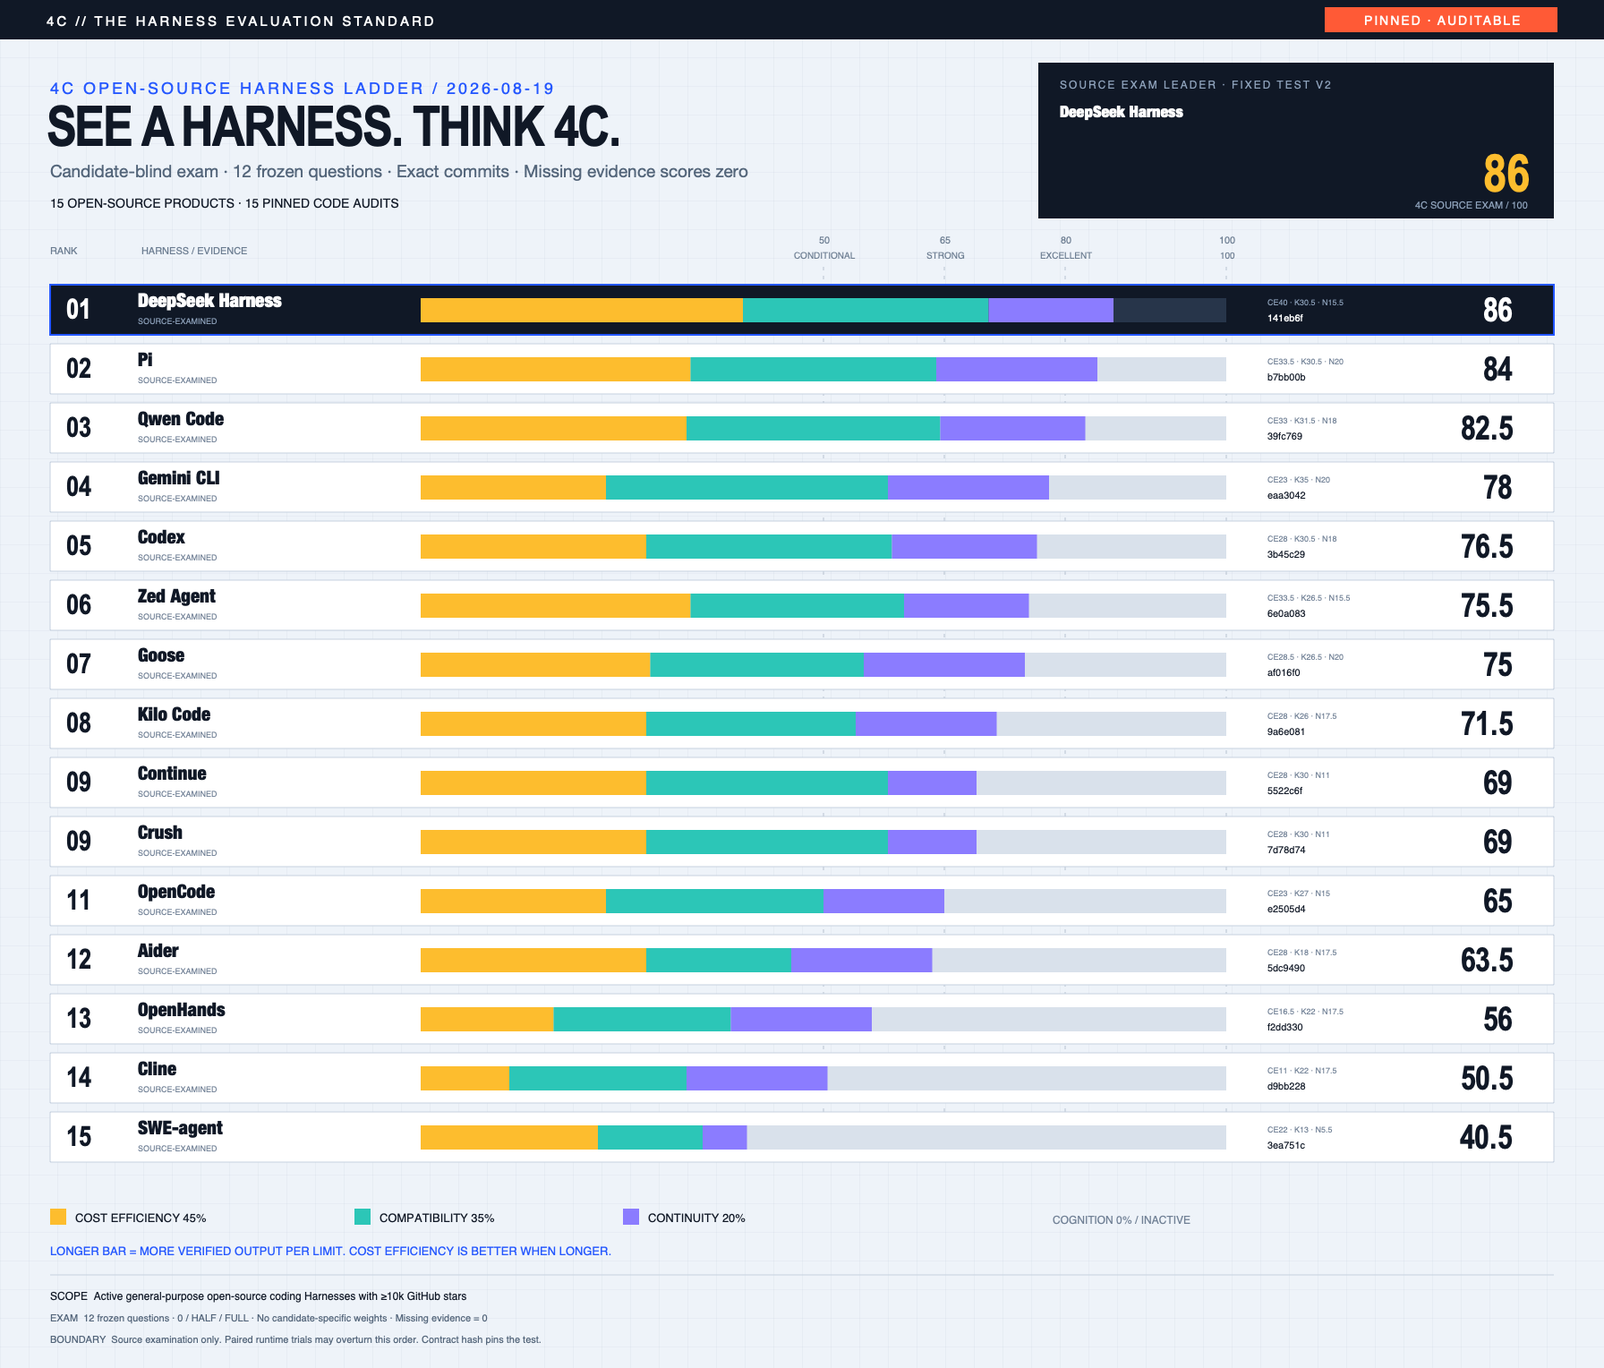
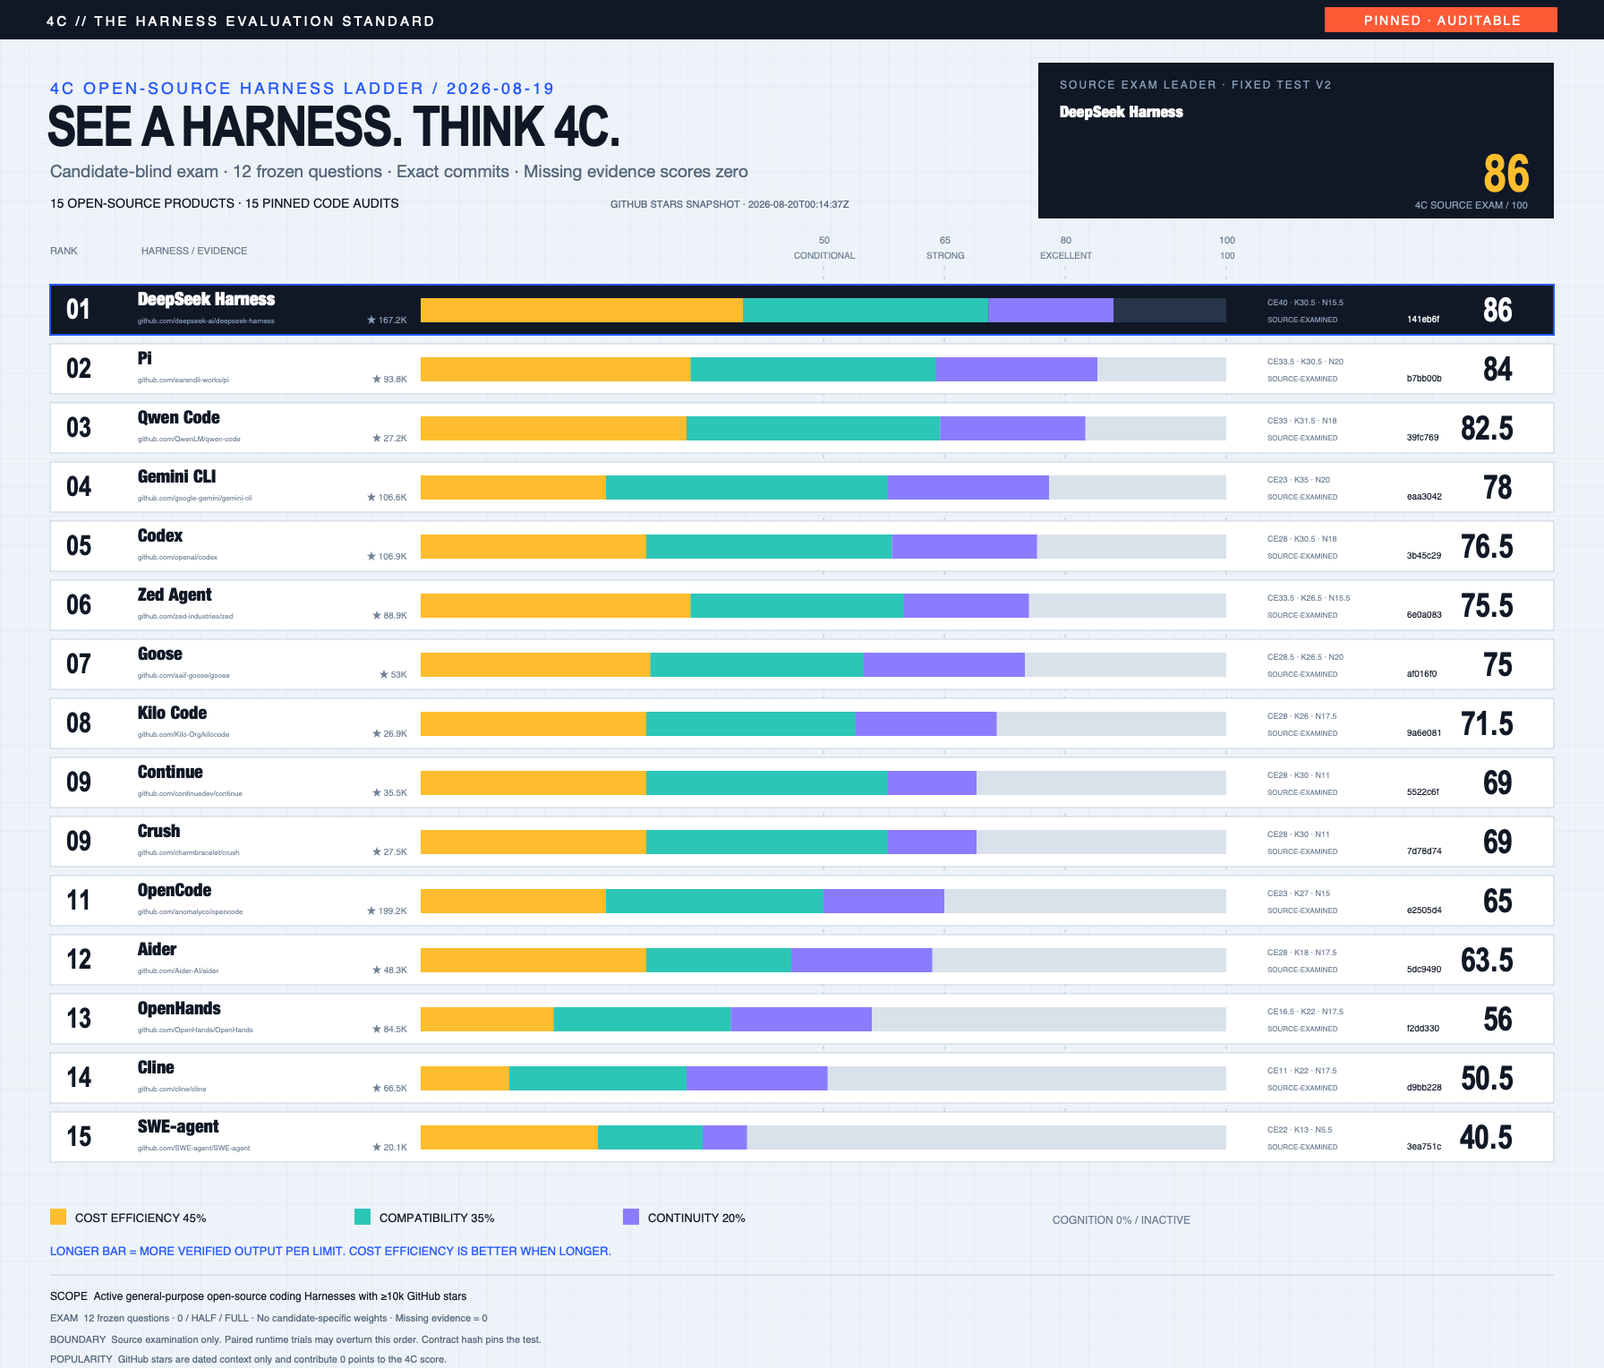
Add GitHub URLs and popularity to ladder

diff --git a/tools/render_harness_ladder.py b/tools/render_harness_ladder.py
@@ -50,10 +50,17 @@ def display(value: float) -> str:
     return str(int(value)) if float(value).is_integer() else f"{value:g}"
 
 
+def display_stars(value: int) -> str:
+    thousands = value / 1000
+    rendered = f"{thousands:.1f}".removesuffix(".0")
+    return f"{rendered}K"
+
+
 def main() -> None:
     exam = json.loads(EXAM.read_text())
     data = json.loads(RESULTS.read_text())
     market = json.loads(MARKET.read_text())
+    products = {product["name"]: product for product in market["products"]}
     indexed = list(enumerate(data["candidates"]))
     candidates = [x for _, x in sorted(indexed, key=lambda pair: (-pair[1]["score"], pair[0]))]
     weights = pressure_weights(exam)
@@ -66,9 +73,9 @@ def main() -> None:
     height = footer_y + 178
     esc = html.escape
     lines = [
-        f'<svg xmlns="http://www.w3.org/2000/svg" width="1792" height="{height}" viewBox="0 0 1792 {height}" role="img" aria-labelledby="title desc" data-comparison-id="{COMPARISON_ID}" data-contract-sha256="{exam["contract_sha256"]}" data-market-snapshot="{market["snapshot_date"]}" data-bar-origin="{GLOBAL_BAR_X}" data-pixels-per-point="{PX}">',
+        f'<svg xmlns="http://www.w3.org/2000/svg" xmlns:xlink="http://www.w3.org/1999/xlink" width="1792" height="{height}" viewBox="0 0 1792 {height}" role="img" aria-labelledby="title desc" data-comparison-id="{COMPARISON_ID}" data-contract-sha256="{exam["contract_sha256"]}" data-market-snapshot="{market["snapshot_date"]}" data-github-metrics-captured-at="{market["github_metrics_captured_at"]}" data-bar-origin="{GLOBAL_BAR_X}" data-pixels-per-point="{PX}">',
         '<title id="title">4C open-source Harness ladder for interactive coding</title>',
-        f'<desc id="desc">Fifteen active open-source coding Harnesses answer the same frozen source exam. {esc(leaders[0]["candidate"])} leads at {display(top)}. Longer bars mean better fit, not higher cost.</desc>',
+        f'<desc id="desc">Fifteen active open-source coding Harnesses answer the same frozen source exam. {esc(leaders[0]["candidate"])} leads at {display(top)}. Each row links to its official GitHub repository and shows a dated star snapshot. Stars do not affect the score. Longer bars mean better fit, not higher cost.</desc>',
         '<defs><pattern id="grid" width="32" height="32" patternUnits="userSpaceOnUse"><path d="M32 0H0V32" fill="none" stroke="#B8C5D6" stroke-width="1" opacity=".28"/></pattern></defs>',
         f'<rect width="1792" height="{height}" fill="#EEF3F9"/><rect width="1792" height="{height}" fill="url(#grid)"/>',
         '<rect width="1792" height="44" fill="#101826"/>',
@@ -78,6 +85,7 @@ def main() -> None:
         '<text x="52" y="163" fill="#101826" font-family="Arial Narrow,Helvetica Neue,Arial,sans-serif" font-size="62" font-weight="900" letter-spacing="-2">SEE A HARNESS. THINK 4C.</text>',
         '<text x="56" y="198" fill="#53657A" font-family="Helvetica Neue,Arial,sans-serif" font-size="19">Candidate-blind exam · 12 frozen questions · Exact commits · Missing evidence scores zero</text>',
         f'<text class="coverage-count" x="56" y="232" fill="#101826" font-family="SFMono-Regular,Menlo,monospace" font-size="14" font-weight="700">{len(candidates)} OPEN-SOURCE PRODUCTS · {len(candidates)} PINNED CODE AUDITS</text>',
+        f'<text x="682" y="232" fill="#53657A" font-family="SFMono-Regular,Menlo,monospace" font-size="11">GITHUB STARS SNAPSHOT · {market["github_metrics_captured_at"]}</text>',
         '<g transform="translate(1160 70)"><rect width="576" height="174" fill="#101826"/>',
         '<text x="24" y="29" fill="#8FA3BC" font-family="SFMono-Regular,Menlo,monospace" font-size="12" letter-spacing="2">SOURCE EXAM LEADER · FIXED TEST V2</text>',
     ]
@@ -97,14 +105,20 @@ def main() -> None:
     for idx, (item, rank) in enumerate(zip(candidates, ranks)):
         y = row_start + idx * row_step
         leader = item["score"] == top
+        product = products[item["candidate"]]
+        official_url = product["official_url"]
+        visible_url = official_url.removeprefix("https://")
+        stars = int(product["stars_at_snapshot"])
         bg, fg, sub, stroke = ("#101826", "#FFFFFF", "#8FA3BC", "#2457FF") if leader else ("#FFFFFF", "#101826", "#718196", "#C7D2E0")
         lines += [
             f'<!-- {esc(item["candidate"])} -->',
-            f'<g class="candidate-row" data-candidate="{esc(item["candidate"])}" data-score="{display(item["score"])}" data-rank="{rank}" transform="translate({ROW_X} {y})">',
+            f'<g class="candidate-row" data-candidate="{esc(item["candidate"])}" data-score="{display(item["score"])}" data-rank="{rank}" data-url="{esc(official_url)}" data-stars="{stars}" transform="translate({ROW_X} {y})">',
             f'<rect width="1680" height="{row_height}" fill="{bg}" stroke="{stroke}" stroke-width="{2 if leader else 1}"/>',
             f'<text class="rank-label" x="18" y="38" fill="{fg}" font-family="Arial Narrow,Helvetica Neue,Arial,sans-serif" font-size="31" font-weight="900">{rank:02d}</text>',
-            f'<text class="candidate-label" x="98" y="25" fill="{fg}" font-family="Helvetica Neue,Arial,sans-serif" font-size="21" font-weight="800">{esc(item["candidate"])}</text>',
-            f'<text class="stage-label" x="98" y="44" fill="{sub}" font-family="SFMono-Regular,Menlo,monospace" font-size="9">{item["evidence_stage"].upper()}</text>',
+            f'<text class="candidate-label" x="98" y="23" fill="{fg}" font-family="Helvetica Neue,Arial,sans-serif" font-size="20" font-weight="800">{esc(item["candidate"])}</text>',
+            f'<text class="candidate-url" x="98" y="43" fill="{sub}" font-family="SFMono-Regular,Menlo,monospace" font-size="8">{esc(visible_url)}</text>',
+            f'<text class="star-label" x="398" y="43" text-anchor="end" fill="{sub}" font-family="SFMono-Regular,Menlo,monospace" font-size="10" font-weight="700">★ {display_stars(stars)}</text>',
+            f'<a class="candidate-link" href="{esc(official_url)}" xlink:href="{esc(official_url)}" target="_blank" aria-label="Open {esc(item["candidate"])} on GitHub"><rect x="90" y="3" width="312" height="48" fill="#FFFFFF" fill-opacity="0"/></a>',
             f'<rect x="{BAR_X}" y="15" width="900" height="27" fill="{("#27354A" if leader else "#D9E1EB")}"/>',
         ]
         cursor = BAR_X
@@ -119,7 +133,8 @@ def main() -> None:
         grade_text = f'CE{display(contribution_values["Cost"])} · K{display(contribution_values["Compatibility"])} · N{display(contribution_values["Continuity"])}'
         lines += [
             f'<text x="1360" y="23" fill="{sub}" font-family="SFMono-Regular,Menlo,monospace" font-size="9">{grade_text}</text>',
-            f'<text x="1360" y="41" fill="{fg}" font-family="SFMono-Regular,Menlo,monospace" font-size="11" font-weight="700">{item["exact_commit"][:7]}</text>',
+            f'<text class="stage-label" x="1360" y="42" fill="{sub}" font-family="SFMono-Regular,Menlo,monospace" font-size="8">{item["evidence_stage"].upper()}</text>',
+            f'<text class="commit-label" x="1516" y="42" fill="{fg}" font-family="SFMono-Regular,Menlo,monospace" font-size="10" font-weight="700">{item["exact_commit"][:7]}</text>',
             f'<text class="score-label" x="1632" y="41" text-anchor="end" fill="{fg}" font-family="Arial Narrow,Helvetica Neue,Arial,sans-serif" font-size="37" font-weight="900">{display(item["score"])}</text>',
             '</g>',
         ]
@@ -138,6 +153,7 @@ def main() -> None:
         '<text x="0" y="102" fill="#101826" font-size="12">SCOPE  Active general-purpose open-source coding Harnesses with ≥10k GitHub stars</text>',
         '<text x="0" y="126" fill="#53657A" font-size="11">EXAM  12 frozen questions · 0 / HALF / FULL · No candidate-specific weights · Missing evidence = 0</text>',
         '<text x="0" y="150" fill="#53657A" font-size="11">BOUNDARY  Source examination only. Paired runtime trials may overturn this order. Contract hash pins the test.</text>',
+        '<text x="0" y="172" fill="#53657A" font-size="11">POPULARITY  GitHub stars are dated context only and contribute 0 points to the 4C score.</text>',
         '</g></svg>',
     ]
     OUTPUT.write_text("\n".join(lines) + "\n")

diff --git a/tools/harness_ladder_check.py b/tools/harness_ladder_check.py
@@ -39,6 +39,12 @@ def display_number(value: float) -> str:
     return str(int(value)) if value.is_integer() else f"{value:g}"
 
 
+def display_stars(value: int) -> str:
+    thousands = value / 1000
+    rendered = f"{thousands:.1f}".removesuffix(".0")
+    return f"{rendered}K"
+
+
 def competition_ranks(candidates: list[dict]) -> list[int]:
     ranks: list[int] = []
     previous_score: float | None = None
@@ -72,6 +78,8 @@ def main() -> int:
     exam = json.loads(EXAM.read_text())
     payload = json.loads(RESULTS.read_text())
     market = json.loads(MARKET.read_text())
+    products = market.get("products", [])
+    products_by_name = {product.get("name"): product for product in products}
     weights = pressure_weights(exam)
     indexed = list(enumerate(payload["candidates"]))
     candidates = [
@@ -88,6 +96,8 @@ def main() -> int:
         errors.append("SVG is not bound to the frozen exam contract")
     if svg.get("data-market-snapshot") != market["snapshot_date"]:
         errors.append("SVG market snapshot does not match the market universe")
+    if svg.get("data-github-metrics-captured-at") != market.get("github_metrics_captured_at"):
+        errors.append("SVG GitHub metrics timestamp does not match the market universe")
     pixels_per_point = float(svg.get("data-pixels-per-point", "nan"))
     global_bar_origin = float(svg.get("data-bar-origin", "nan"))
 
@@ -99,15 +109,25 @@ def main() -> int:
             name = candidate["candidate"]
             score = float(candidate["score"])
             prefix = f"{name}:"
+            product = products_by_name.get(name, {})
+            official_url = str(product.get("official_url", ""))
+            stars = int(product.get("stars_at_snapshot", 0))
             if row.get("data-candidate") != name:
                 errors.append(f"{prefix} row order/name differs from scorecard")
             if row.get("data-score") != display_number(score):
                 errors.append(f"{prefix} data-score differs from {display_number(score)}")
             if row.get("data-rank") != str(rank):
                 errors.append(f"{prefix} rank differs from {rank}")
+            if row.get("data-url") != official_url:
+                errors.append(f"{prefix} row URL differs from the market snapshot")
+            if row.get("data-stars") != str(stars):
+                errors.append(f"{prefix} row stars differ from the market snapshot")
 
             try:
                 candidate_label = one_with_class(row, "candidate-label").text or ""
+                candidate_link = one_with_class(row, "candidate-link")
+                candidate_url = one_with_class(row, "candidate-url").text or ""
+                star_label = one_with_class(row, "star-label").text or ""
                 rank_label = one_with_class(row, "rank-label").text or ""
                 score_label = one_with_class(row, "score-label").text or ""
                 stage_label = one_with_class(row, "stage-label").text or ""
@@ -116,6 +136,12 @@ def main() -> int:
                 continue
             if candidate_label != name:
                 errors.append(f"{prefix} visible candidate label is stale")
+            if candidate_link.get("href") != official_url:
+                errors.append(f"{prefix} visible candidate link is stale")
+            if candidate_url != official_url.removeprefix("https://"):
+                errors.append(f"{prefix} visible GitHub URL is stale")
+            if star_label != f"★ {display_stars(stars)}":
+                errors.append(f"{prefix} visible GitHub stars are stale")
             if rank_label != f"{rank:02d}":
                 errors.append(f"{prefix} visible rank label is stale")
             if score_label != display_number(score):
@@ -185,7 +211,6 @@ def main() -> int:
     except ValueError as error:
         errors.append(str(error))
 
-    products = market.get("products", [])
     product_names = [product.get("name") for product in products]
     if len(product_names) != len(set(product_names)):
         errors.append("market universe contains duplicate product names")
@@ -198,12 +223,15 @@ def main() -> int:
             errors.append(f"{name}: unsupported market status {status!r}")
         if not str(product.get("official_url", "")).startswith("https://"):
             errors.append(f"{name}: official_url must be HTTPS")
+        if status == "ranked":
+            if not str(product.get("official_url", "")).startswith("https://github.com/"):
+                errors.append(f"{name}: ranked candidate requires an official GitHub URL")
+            if int(product.get("stars_at_snapshot", 0)) < 10_000:
+                errors.append(f"{name}: ranked candidate misses the market-presence gate")
         if status in {"source-audit-queued", "ranked"} and "pinned_commit" in product:
             commit = str(product.get("pinned_commit", ""))
             if len(commit) != 40 or any(character not in "0123456789abcdef" for character in commit):
                 errors.append(f"{name}: public source entry requires a 40-character commit")
-            if int(product.get("stars_at_snapshot", 0)) < 10_000:
-                errors.append(f"{name}: public source entry misses the market-presence gate")
 
     ranked_names = {product["name"] for product in products if product["status"] == "ranked"}
     scorecard_names = {candidate["candidate"] for candidate in candidates}

diff --git a/tools/test_harness_ladder_check.py b/tools/test_harness_ladder_check.py
@@ -59,6 +59,30 @@ class HarnessLadderTests(unittest.TestCase):
             with patch.object(ladder, "LADDER", path), redirect_stderr(io.StringIO()):
                 self.assertEqual(ladder.main(), 1)
 
+    def test_changed_candidate_url_is_rejected(self) -> None:
+        source = ladder.LADDER.read_text()
+        altered = source.replace(
+            'data-url="https://github.com/deepseek-ai/deepseek-harness"',
+            'data-url="https://github.com/example/not-the-candidate"',
+            1,
+        )
+        self.assertNotEqual(source, altered)
+        with tempfile.TemporaryDirectory() as directory:
+            path = Path(directory) / "ladder.svg"
+            path.write_text(altered)
+            with patch.object(ladder, "LADDER", path), redirect_stderr(io.StringIO()):
+                self.assertEqual(ladder.main(), 1)
+
+    def test_changed_candidate_stars_are_rejected(self) -> None:
+        source = ladder.LADDER.read_text()
+        altered = source.replace('data-stars="167152"', 'data-stars="167153"', 1)
+        self.assertNotEqual(source, altered)
+        with tempfile.TemporaryDirectory() as directory:
+            path = Path(directory) / "ladder.svg"
+            path.write_text(altered)
+            with patch.object(ladder, "LADDER", path), redirect_stderr(io.StringIO()):
+                self.assertEqual(ladder.main(), 1)
+
 
 if __name__ == "__main__":
     unittest.main()

diff --git a/docs/scouts/2026-08-19-open-source-ladder.md b/docs/scouts/2026-08-19-open-source-ladder.md
@@ -3,6 +3,9 @@
 This report is the audit trail behind the opening ladder. It compares every
 active general-purpose open-source coding Harness in the dated market universe
 with at least 10,000 GitHub stars. Each repository is pinned to an exact commit.
+Every candidate row also carries its official GitHub URL and a star-count
+snapshot captured at **2026-08-20T00:14:37Z**. Stars are market context only:
+they contribute **0 points** to the 4C score.
 
 ## Locked comparison contract
 
@@ -20,26 +23,30 @@ with at least 10,000 GitHub stars. Each repository is pinned to an exact commit.
 
 ## Result
 
-| Rank | Harness | CE / K / N | Source exam | Pinned commit |
-|---:|---|---:|---:|---|
-| 1 | DeepSeek Harness | 40 / 30.5 / 15.5 | **86** | `141eb6f` |
-| 2 | Pi | 33.5 / 30.5 / 20 | **84** | `b7bb00b` |
-| 3 | Qwen Code | 33 / 31.5 / 18 | **82.5** | `39fc769` |
-| 4 | Gemini CLI | 23 / 35 / 20 | **78** | `eaa3042` |
-| 5 | Codex | 28 / 30.5 / 18 | **76.5** | `3b45c29` |
-| 6 | Zed Agent | 33.5 / 26.5 / 15.5 | **75.5** | `6e0a083` |
-| 7 | Goose | 28.5 / 26.5 / 20 | **75** | `af016f0` |
-| 8 | Kilo Code | 28 / 26 / 17.5 | **71.5** | `9a6e081` |
-| 9 | Continue | 28 / 30 / 11 | **69** | `5522c6f` |
-| 9 | Crush | 28 / 30 / 11 | **69** | `7d78d74` |
-| 11 | OpenCode | 23 / 27 / 15 | **65** | `e2505d4` |
-| 12 | Aider | 28 / 18 / 17.5 | **63.5** | `5dc9490` |
-| 13 | OpenHands | 16.5 / 22 / 17.5 | **56** | `f2dd330` |
-| 14 | Cline | 11 / 22 / 17.5 | **50.5** | `d9bb228` |
-| 15 | SWE-agent | 22 / 13 / 5.5 | **40.5** | `3ea751c` |
+| Rank | Harness | Official GitHub | Stars | CE / K / N | Source exam | Pinned commit |
+|---:|---|---|---:|---:|---:|---|
+| 1 | DeepSeek Harness | [github.com/deepseek-ai/deepseek-harness](https://github.com/deepseek-ai/deepseek-harness) | 167,152 | 40 / 30.5 / 15.5 | **86** | `141eb6f` |
+| 2 | Pi | [github.com/earendil-works/pi](https://github.com/earendil-works/pi) | 93,784 | 33.5 / 30.5 / 20 | **84** | `b7bb00b` |
+| 3 | Qwen Code | [github.com/QwenLM/qwen-code](https://github.com/QwenLM/qwen-code) | 27,200 | 33 / 31.5 / 18 | **82.5** | `39fc769` |
+| 4 | Gemini CLI | [github.com/google-gemini/gemini-cli](https://github.com/google-gemini/gemini-cli) | 106,586 | 23 / 35 / 20 | **78** | `eaa3042` |
+| 5 | Codex | [github.com/openai/codex](https://github.com/openai/codex) | 106,859 | 28 / 30.5 / 18 | **76.5** | `3b45c29` |
+| 6 | Zed Agent | [github.com/zed-industries/zed](https://github.com/zed-industries/zed) | 88,895 | 33.5 / 26.5 / 15.5 | **75.5** | `6e0a083` |
+| 7 | Goose | [github.com/aaif-goose/goose](https://github.com/aaif-goose/goose) | 53,011 | 28.5 / 26.5 / 20 | **75** | `af016f0` |
+| 8 | Kilo Code | [github.com/Kilo-Org/kilocode](https://github.com/Kilo-Org/kilocode) | 26,937 | 28 / 26 / 17.5 | **71.5** | `9a6e081` |
+| 9 | Continue | [github.com/continuedev/continue](https://github.com/continuedev/continue) | 35,546 | 28 / 30 / 11 | **69** | `5522c6f` |
+| 9 | Crush | [github.com/charmbracelet/crush](https://github.com/charmbracelet/crush) | 27,504 | 28 / 30 / 11 | **69** | `7d78d74` |
+| 11 | OpenCode | [github.com/anomalyco/opencode](https://github.com/anomalyco/opencode) | 199,235 | 23 / 27 / 15 | **65** | `e2505d4` |
+| 12 | Aider | [github.com/Aider-AI/aider](https://github.com/Aider-AI/aider) | 48,333 | 28 / 18 / 17.5 | **63.5** | `5dc9490` |
+| 13 | OpenHands | [github.com/OpenHands/OpenHands](https://github.com/OpenHands/OpenHands) | 84,508 | 16.5 / 22 / 17.5 | **56** | `f2dd330` |
+| 14 | Cline | [github.com/cline/cline](https://github.com/cline/cline) | 66,499 | 11 / 22 / 17.5 | **50.5** | `d9bb228` |
+| 15 | SWE-agent | [github.com/SWE-agent/SWE-agent](https://github.com/SWE-agent/SWE-agent) | 20,080 | 22 / 13 / 5.5 | **40.5** | `3ea751c` |
 
 `CE / K / N` means Cost Efficiency / Compatibility / Continuity point
 contributions. Cognition is inactive for this comparison.
+
+Star counts come from the official GitHub repository API at the single timestamp
+above. They make project attention visible without turning popularity into a
+quality grade.
 
 ## The fixed exam
 

diff --git a/docs/validation/market-universe.md b/docs/validation/market-universe.md
@@ -1,12 +1,16 @@
 # 4C Harness market universe
 
 Snapshot: **2026-08-19**  
+GitHub metrics captured: **2026-08-20T00:14:37Z**
 Scope: `active-general-purpose-coding-harness-v1`
 
 The market universe tracks **31 active Harness products**. The opening ladder
 ranks all **15 open-source products** that pass the public-implementation and
 10,000-star gates on the frozen candidate-blind `interactive-coding-v2` exam. The remaining
 16 need runtime evidence and are not given fabricated source scores.
+Every ranked candidate includes its official repository URL and exact GitHub
+star count at the shared capture time. Popularity is an inclusion/context
+signal only and contributes zero points to the 4C source exam.
 
 ## Inclusion rule
 

diff --git a/README.md b/README.md
@@ -11,7 +11,9 @@ scope rule. Every candidate answers the same 12 frozen questions; missing
 evidence scores zero, and a contract hash prevents candidate-specific weights
 or post-hoc question changes. The [exam](docs/scouts/interactive-coding-v2-exam.json),
 [answer sheets](docs/scouts/interactive-coding-v2-results.json), and exact-commit
-evidence are machine-checked. Commercial and source-insufficient
+evidence are machine-checked. Each candidate now links to its official GitHub
+repository and shows a dated star snapshot; stars are context, never a scoring
+input. Commercial and source-insufficient
 products remain tracked—without invented scores—in the rule-based
 [market universe](docs/validation/market-universe.md).
 
